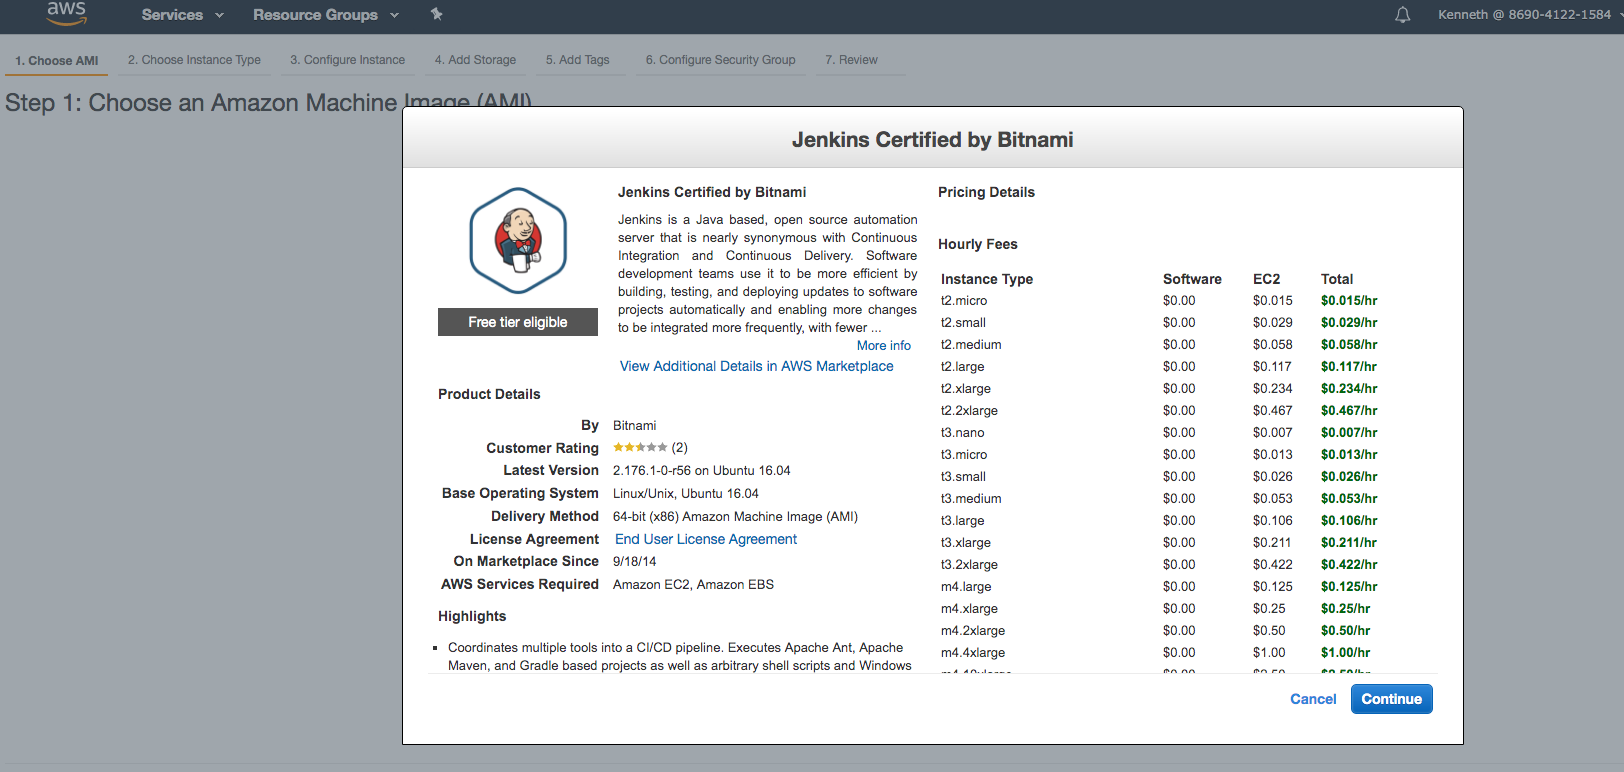
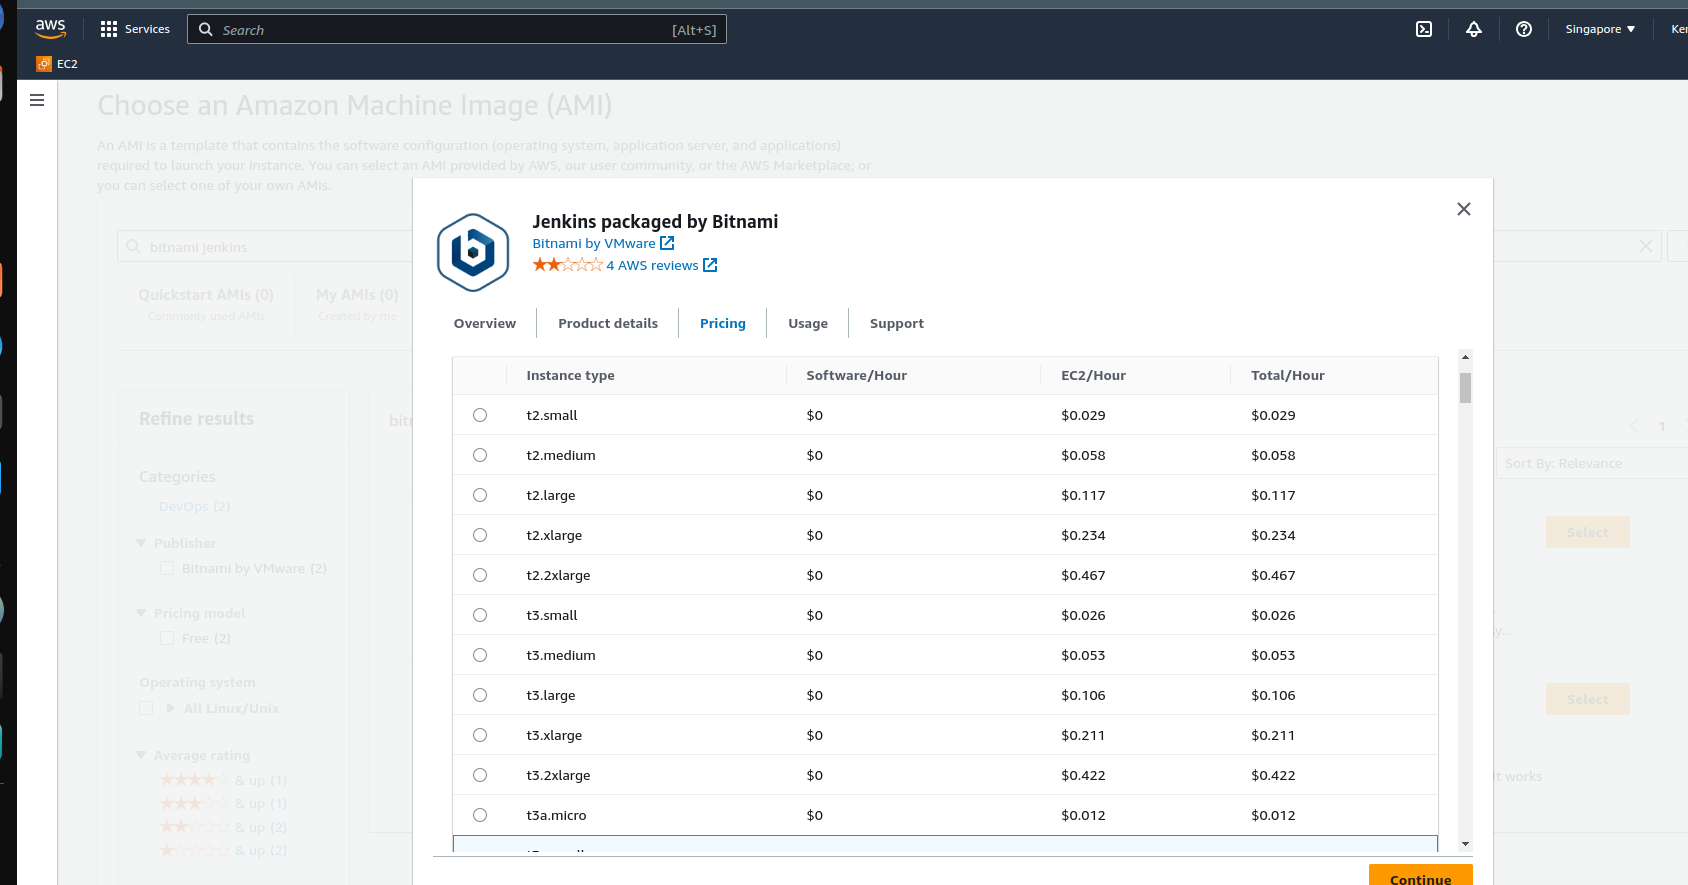
upd

diff --git a/workshop/workshop3-1.md b/workshop/workshop3-1.md
@@ -1,0 +1,171 @@
+# S-DOEA - Workshop 4 - Terraform and Ansible
+
+## Terraform
+
+### Objective
+The objective of this workshop is use Terraform’s HCL to write scripts to
+provision Docker containers and a reverse proxy.
+
+### Setup
+For this workshop create a directory call workshop01 in the repository you
+have create in step a. above. All the files for this workshop should be created in
+workshop01 directory.
+
+
+### Workshop
+In this workshop you will automate the provisioning of the following
+infrastructure shown in the following diagram.
+
+
+<br>
+<img style="float: center;" src="./screens/terraform-1.png">
+<br>
+
+
+The infrastructure stack consists of
+1. Docker network called bgg-net
+2. Container running MySQL database (bgg-database) inside bgg-net
+3. A specified number of containers running a Nodejs application (bggbackend). These web applications connect to MySQL database. These
+applications are also provisioned inside bgg-net
+4. An instance of Nginx running on a separate server which routes traffic to
+the bgg-backend instances.
+
+The following are detail description of provisioning each of the resource in the
+stack.
+
+### Network (bgg-net)
+• Create a Docker network called bgg-net. This network will be used for all
+the containers in our application.
+
+### Database (bgg-database)
+• Provision a Docker volume to be used by the database.
+• Use the image chukmunnlee/bgg-database:v3.1 to create the
+bgg-database container
+• Mount the Docker volume that you have created under
+/var/lib/mysql. The database will be created in this volume rather
+that inside the container
+• Expose MySQL port 3306
+• The database should be created inside bgg-net network
+
+### Application (bgg-backend)
+• Create 3 instances of the application using the following image:
+chukmunnlee/bgg-backend:v3
+• Add the following environment variables
+o BGG_DB_USER set to root
+o BGG_DB_PASSWORD set to changeit
+o BGG_DB_HOST set to the application database resource name
+• The internal port of the application is 3000. Choose a suitable external port
+to port bind to
+
+### Nginx Reverse Proxy
+• Provision a Ubuntu server. Use Ubuntu 20.04 x64
+• Add a SSH key to the server so you can SSH into the server
+• Install Nginx and enable the service with the following commands
+o /usr/bin/apt update -y
+o /usr/bin/apt upgrade -y
+
+
+o /usr/bin/apt install nginx -y
+o /usr/bin/systemctl start nginx
+o /usr/bin/systemctl enable nginx
+• Create a Nginx configuration file called nginx.conf with the container
+endpoints. Use the following template
+
+```
+user www-data;
+worker_processes auto;
+pid /run/nginx.pid;
+events {
+    worker_connections 768;
+}
+http: {
+    access_log /var/log/nginx/access.log;
+    error_log /var/log/nginx/error.log;
+    gzip on;
+    upstream apps {
+        least_conn;
+        # the following list the container endpoints
+        # one server line for each endpoint
+        # eg server <docker_host_ip>:<exposed_port>;
+        server docker_host_ip:exposed_port_0;
+        server docker_host_ip:exposed_port_1;
+        server docker_host_ip:exposed_port_2;
+    }
+    server {
+        listen 80;
+        location / {
+            proxy_pass http://apps;
+        }
+    }
+}
+
+```
+Hint: this configuration file should be generated from the bgg-backend
+external ports
+• Replace the /etc/nginx/nginx.conf on the reverse proxy with your
+nginx.conf.
+• Signal Nginx to reload the new configuration with the following command
+o /usr/sbin/nginx -s reload, or
+o /usr/bin/systemctl restart nginx
+
+
+### Outputs
+Your Terraform script should produce the following artefacts and outputs
+• Reverse proxy IP address
+• List of all the container endpoint in the following format
+<docker_host_ip>:<exposed_port>
+• An empty file call root@<reverse_proxy_ip >
+
+### Test
+Test your deployment by browsing to http://<reverse_proxy_ip>.
+You should see the following
+
+### Submission
+When you have completed this workshop, commit your work to the repository.
+The instructor will clone your repository at the end
+
+<br>
+<img style="float: center;" src="./screens/terraform-2.png">
+<br>
+
+
+## Ansible
+
+
+The objective of this workshop is to automate the installation of Code-Server
+on a server
+
+
+### Setup
+a. Create a directory called workshop02 in your course repository.
+b. Read Step 1 and Step 2 of the following blog
+https://www.digitalocean.com/community/tutorials/how-to-set-up-the-
+code-server-cloud-ide-platform-on-ubuntu-20-04.
+
+### Workshop
+Provision a Ubuntu server for this exercise. You can use Terraform or manually
+provision an instance on DigitalOcean’s console.
+Once you have provisioned, note the IP address, root user and SSH keys used.
+Use these information to create an inventory file, inventory.yaml.
+Write a playbook that will use the inventory.yaml file to configure the
+server. The playbook should perform the following tasks
+• Update the /lib/systemd/system/code-server.service file
+with the code server password; change the following line
+Environment=PASSWORD=__PLACEHOLDER__
+with the password, assuming that the password is mypassword
+Environment=PASSWORD=”mypassword”
+Day 03 Workshop Automating Infrastructure Provisioning and Configuration
+Page 2 of 2
+• Update the /etc/nginx/sites-available/code-server.conf
+file with the domain code-<ipv4_address>.nip.io; change the line
+with server_name to
+server_name code-<ipv4_address>.nip.io;
+• Use systemd module to restart nginx and code-server services. You
+must also perform a daemon reload viz. set daemon_reload to yes.
+
+### Test
+Test your deployment by browsing to http://```<ip-address>```
+
+### Submission
+When you have completed this workshop, commit your work to the repository.
+The instructor will clone your repository at the end

diff --git a/README.md b/README.md
@@ -6,13 +6,15 @@ https://forms.gle/zUSeKCGSsXRyWvSR8
 | ---------------------------------------------------------------- | :------------------------------------: |
 | S-DOEA - Workshop - Github Workshop                              | [Workshop #1](./workshop/workshop2.md) |
 | S-DOEA - Workshop - Jenkins Installation                         | [Workshop #2](./workshop/workshop1.md) |
-| S-DOEA - Workshop - Jenkins - CI Workshop                        | [Workshop #3](./workshop/workshop3.md) |
-| S-DOEA - Workshop - Infrastructure as Code Workshop (Puppet)     | [Workshop #4](./workshop/workshop4.md) |
-| S-DOEA - Workshop - Containers and Container Management Workshop | [Workshop #5](./workshop/workshop5.md) |
+| S-DOEA - Workshop - Jenkins - CI Workshop                        | [Workshop #3](./workshop/workshop4.md) |
+| S-DOEA - Workshop - Containers and Container Management Workshop | 
+[Workshop #4](./workshop/workshop3.2.md) |
+| S-DOEA - Workshop - Infrastructure as Code Workshop (Terraform and Ansible)     | 
+[Workshop #5](./workshop/workshop5.md) |
 | S-DOEA - Workshop - DevOps in the Cloud                          | [Workshop #6](./workshop/workshop6.md) |
 | S-DOEA - Workshop - End to end DevOps Engineering and Automation | [Workshop #7](./workshop/workshop7.md) |
-| S-DOEA - Workshop - Kubernetes Workshop                          |    [Workshop #8](./workshop/k8.md)     |
-| S-DOEA - Workshop - Lint, SAST, DAST Workshop                    | [Workshop #9](./workshop/workshop9.md) |
+| ~~S-DOEA - Workshop - Kubernetes Workshop~~                          |    ~~[Workshop #8](./workshop/k8.md)~~     |
+| S-DOEA - Workshop - Lint, SAST, DAST Workshop                    | [Workshop #8](./workshop/workshop9.md) |
 
 <table>
     <tr>

diff --git a/workshop/workshop1.md b/workshop/workshop1.md
@@ -4,8 +4,8 @@
 * AWS NUS ISS account
 * Jupyter Notebbok Password will be provided during class
 * Access to this url (Jump host) : 
-http://167.172.84.224:8888/?token=bd64f9d88ba3b5cd107f803018f045a25fc6384a4f2513ea
-* AWS Region: Sydney (ap-southeast-2)
+http://167.172.84.224:8888/?token=29284d0ebe52c3e4c6346367ad5cfac60932c832ad86e885
+* AWS Region: Singapore or Sydney
 
 
 ### Step by step installation
@@ -22,7 +22,10 @@ http://167.172.84.224:8888/?token=bd64f9d88ba3b5cd107f803018f045a25fc6384a4f2513
 
 4. Search 'bitnami jenkins' on AWS marketplace click on Select to create the instance
 <br>
+
+<img style="width:350px;height:100px; float: center;" src="./screens/aws_ec2_2-1.png"/>
 <img style="width:350px;height:100px; float: center;" src="./screens/aws_ec2_2.png"/>
+
 
 5. On the next page a pricing details page will be shown. Click continue
 <br>

diff --git a/workshop/workshop5.md b/workshop/workshop5.md
@@ -10,7 +10,13 @@
 
 ## Test out the Docker installation on the Puppet Slave server
 
-Kindly logout from the previous workshop 4 login as ubuntu rather than using root
+Provision Ubuntu server under the AWS account 
+
+<img src="./screens/aws-ubuntu-1.png" width="400" height="200">
+
+Install docker engine using the following instructions
+
+https://docs.docker.com/engine/install/ubuntu/
 
 1. Test out whether docker cli is install correctly
 
